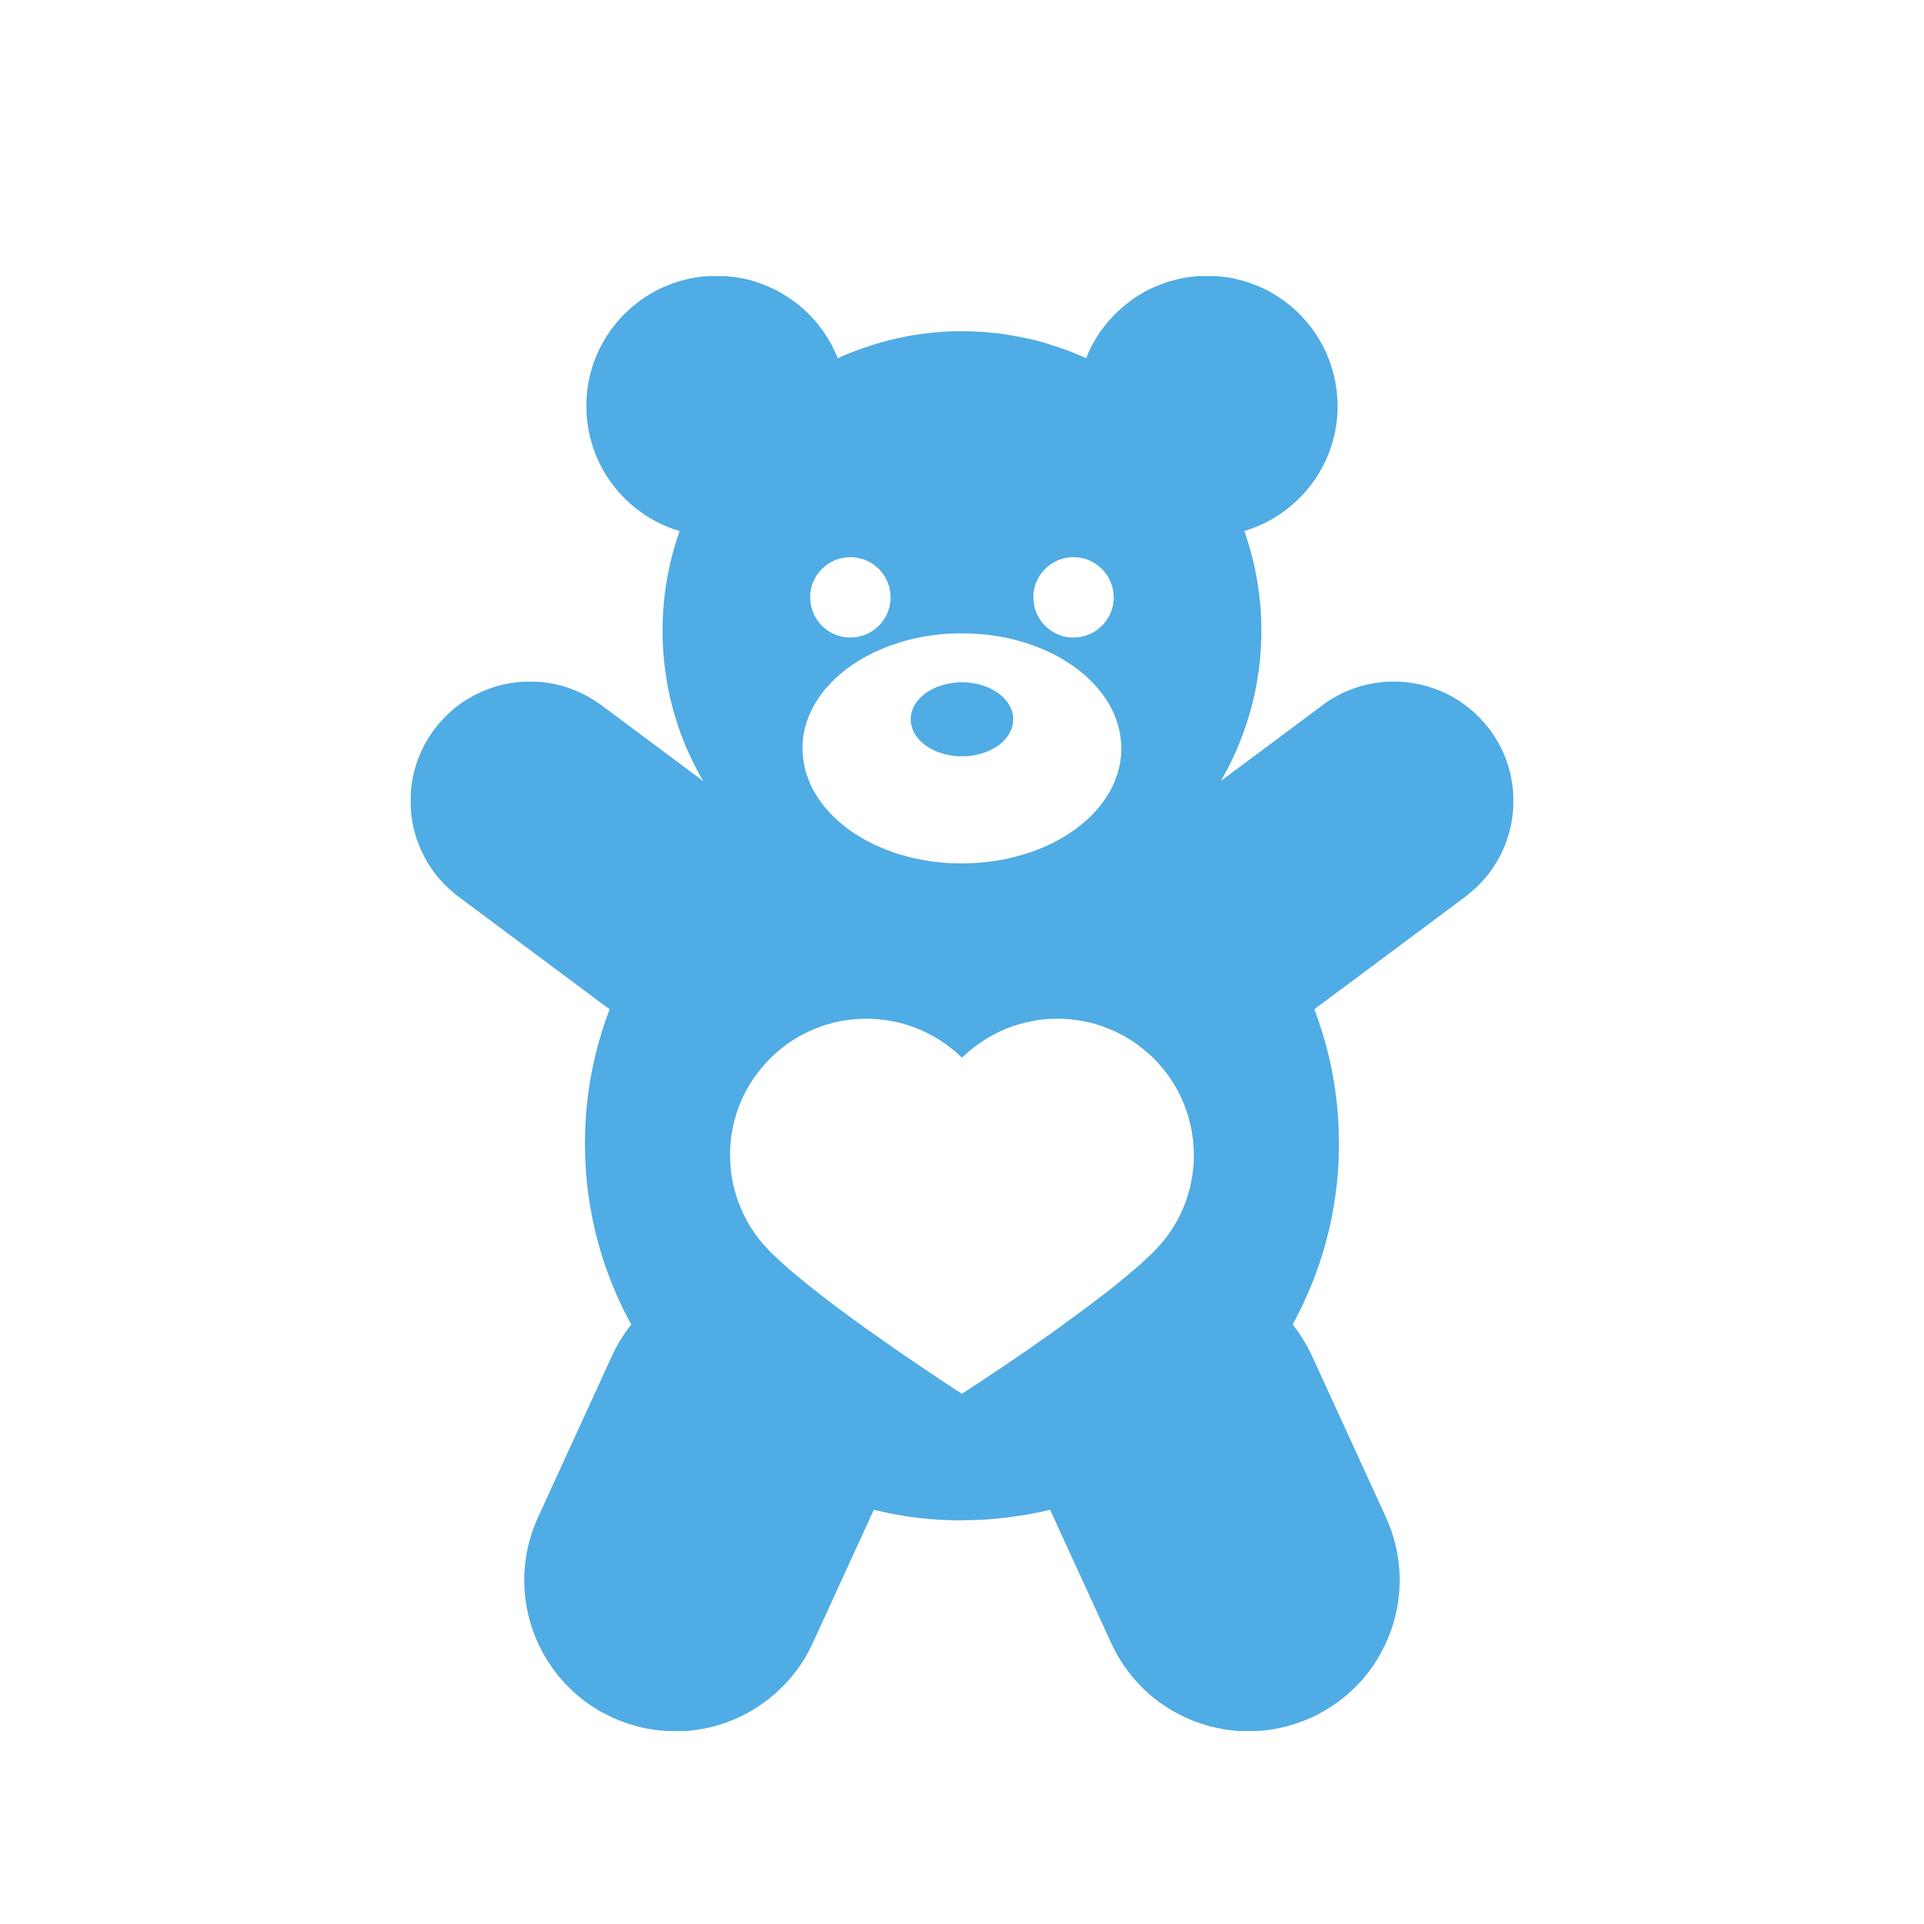
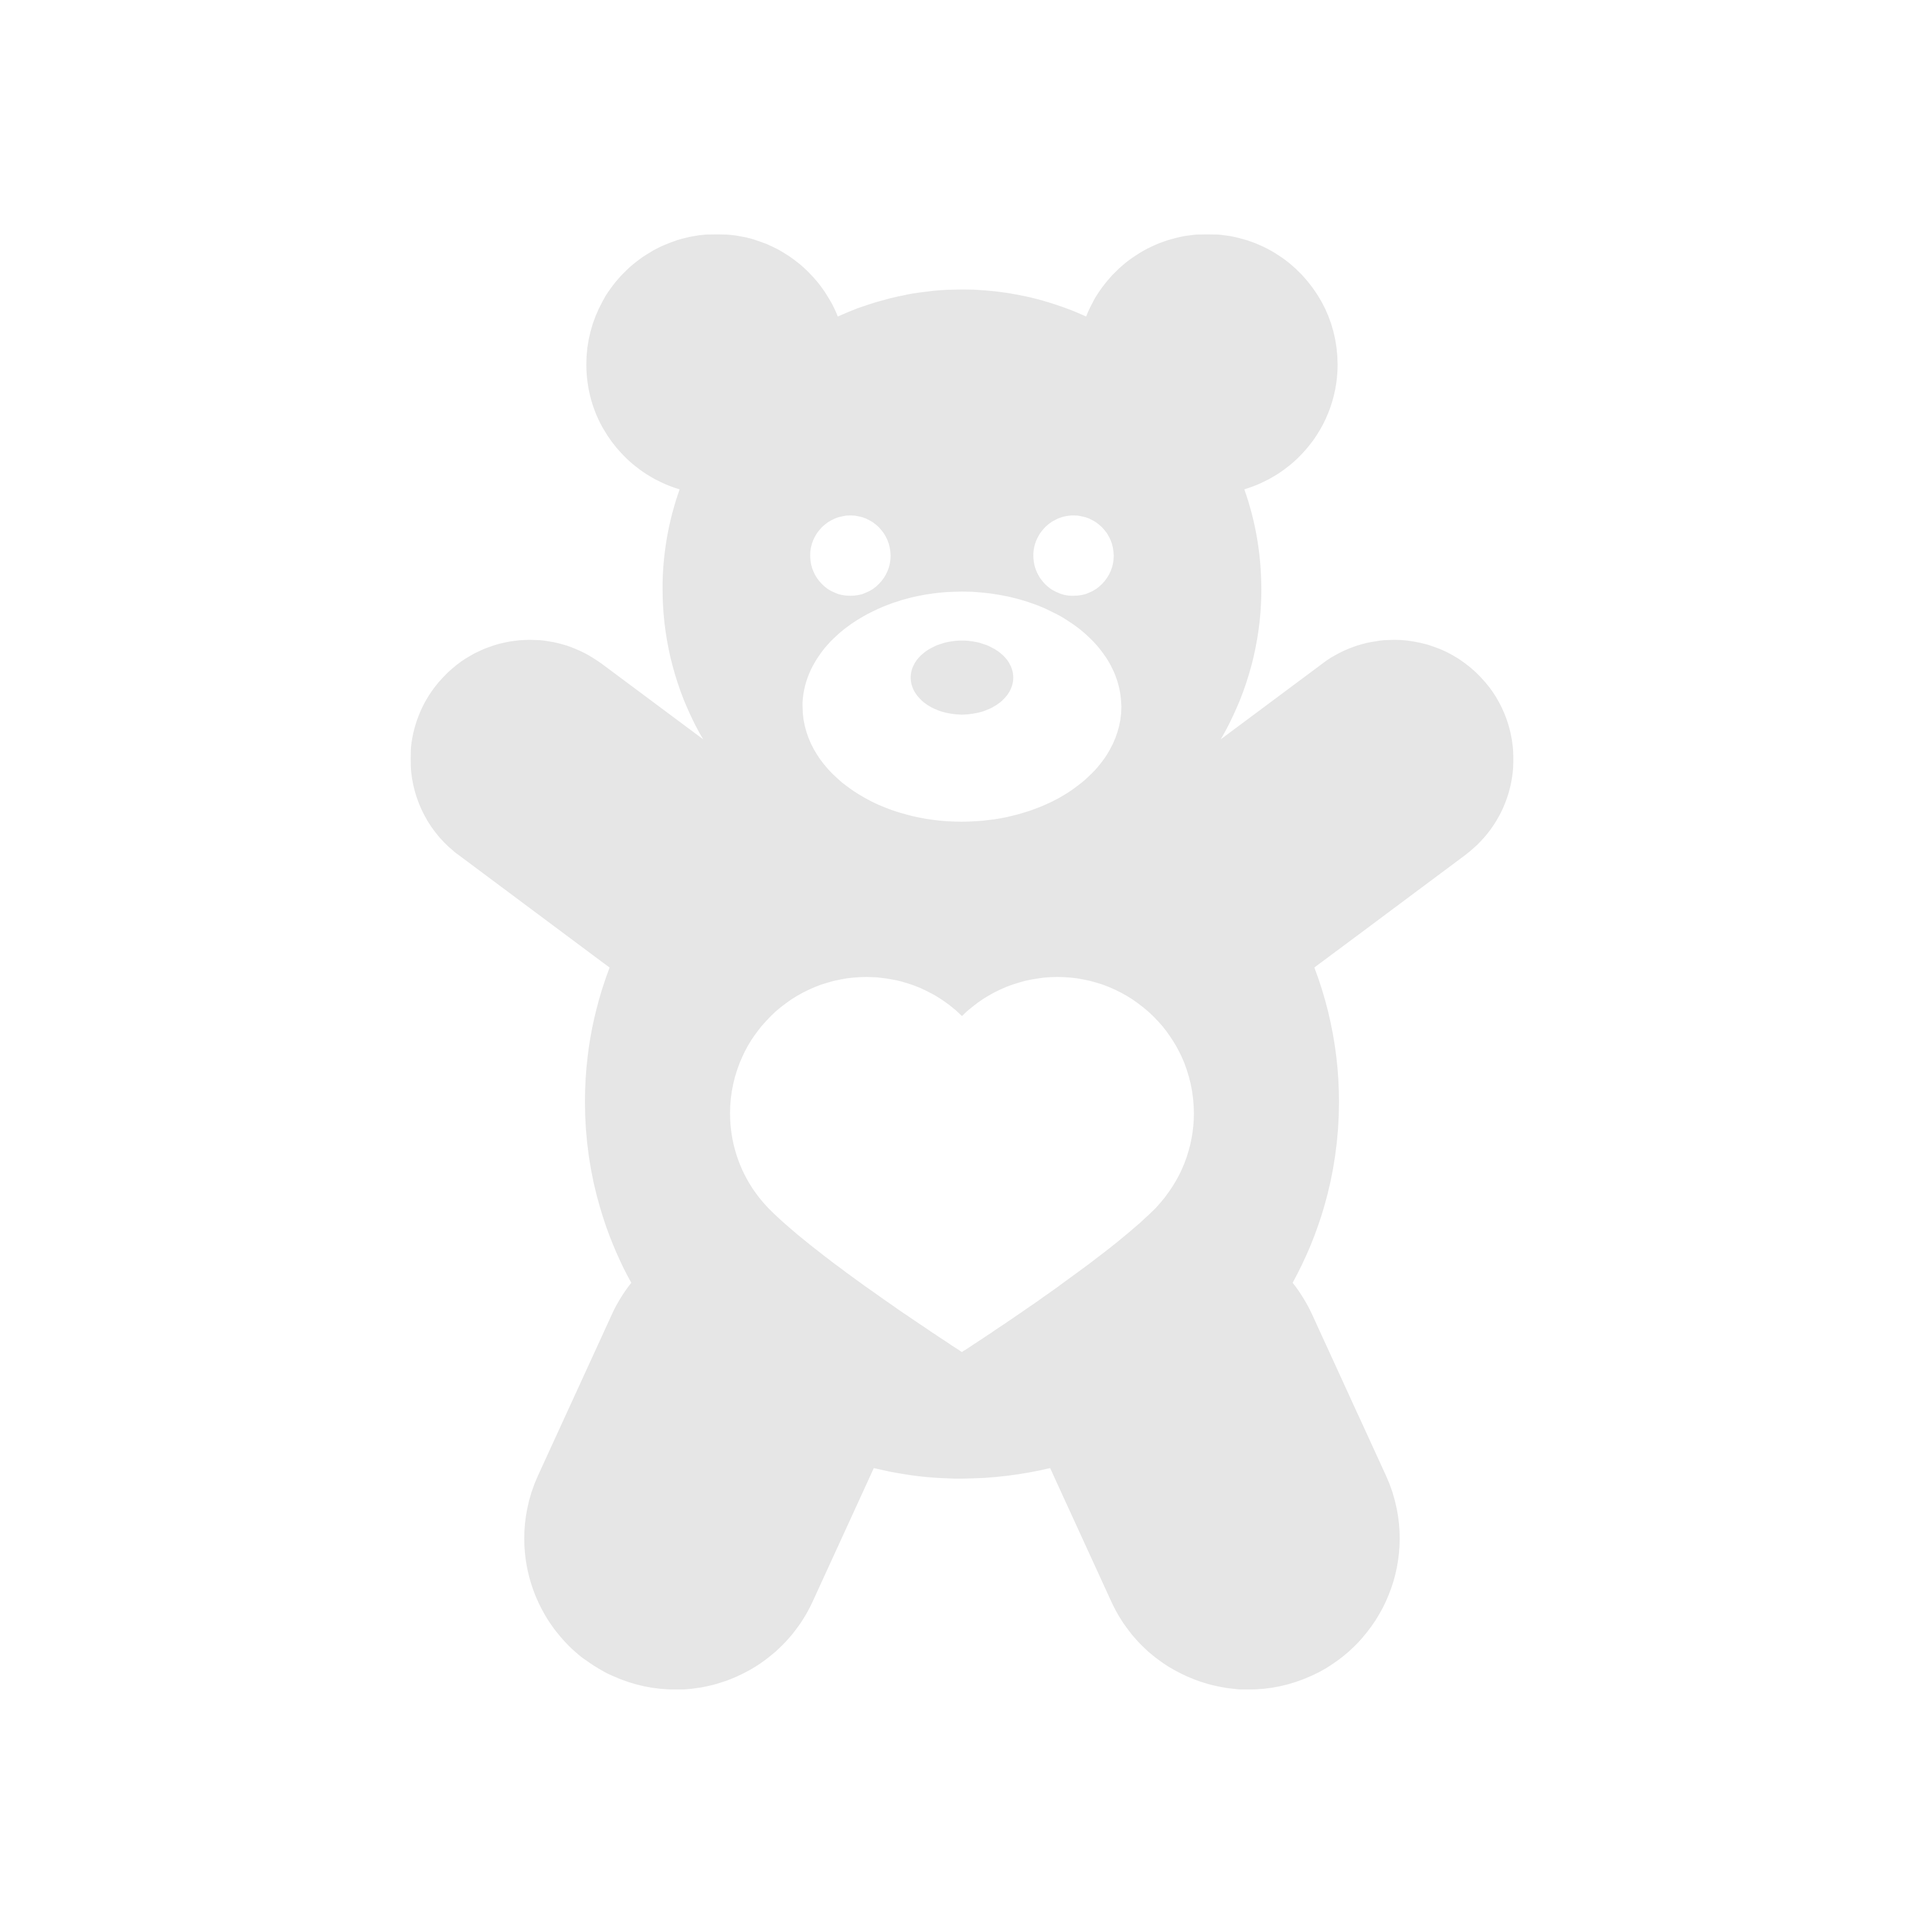
styled babysitter cards

Changed region(s): [[0.187, 0.1247, 0.8105, 0.904]]

diff --git a/SitterShare/client/src/components/Babysitter/GlobalSitterCard.js b/SitterShare/client/src/components/Babysitter/GlobalSitterCard.js
@@ -1,5 +1,6 @@
 import React, { useState, useEffect } from "react";
-import { Card, CardBody, Button } from "reactstrap";
+import { CardGroup, CardImg, CardTitle, CardSubtitle, CardText, Card, CardBody, Button } from "reactstrap";
+import img from "../teddyimage.png"
 import { Link } from 'react-router-dom';
 import { useHistory } from "react-router";
 
@@ -7,17 +8,16 @@ export const GlobalSitterCard = ({ sitter }) => {
     ///add a handle add sitter here and implement onClick in the button
 
     return (
-        <Card className="m-2 p-2 w-50 mx-auto">
-            <CardBody className="m-3">
-                <p><b>Name: </b>{sitter.firstName} {sitter.lastName}</p>
-                <p><b>Bio: </b>{sitter.bio}</p>
-                <div>
-                    <Button outline color="secondary">
-                        <Link to={`/findsitters/details/${sitter.id}`}>view details</Link>
-                    </Button>
-                </div>
-            </CardBody>
-        </Card>
+        <Card className="m-2 w-25 mx-auto">
+            <CardImg top width="100%" src={img} alt="usericon" />
+            <CardBody>
+                <CardTitle tag="h5">{sitter.firstName} {sitter.lastName}</CardTitle>
+                <CardText>{sitter.bio}</CardText>
+                <Button outline color="secondary">
+                    <Link to={`/findsitters/details/${sitter.id}`} style={{ textDecoration: 'none', color: 'black' }}>view details</Link>
+                </Button>
+            </CardBody >
+        </Card >
     );
 }
 

diff --git a/SitterShare/client/src/components/Parent/GlobalParentList.js b/SitterShare/client/src/components/Parent/GlobalParentList.js
@@ -1,5 +1,5 @@
 import React, { useEffect, useState } from "react";
-import { Card, CardBody, Container, Row, Col } from "reactstrap";
+import { Card, CardDeck, CardBody, Container, Row, Col } from "reactstrap";
 import GlobalParentCard from './GlobalParentCard';
 import { getAllParents } from "../../modules/parentManager";
 import "./GlobalParentList.css"
@@ -19,13 +19,11 @@ const GlobalParentsList = () => {
     return (
         <>
             <h2 className="text-center">Search for Friends</h2>
-            <Container id="container">
-                <div className="justify-content-center">
-                    {parents.map((parent) => (
-                        <GlobalParentCard parent={parent} key={parent.id} />
-                    ))}
-                </div>
-            </Container>
+            <CardDeck className="justify-content-center">
+                {parents.map((parent) => (
+                    <GlobalParentCard parent={parent} key={parent.id} />
+                ))}
+            </CardDeck>
         </>
     );
 };

diff --git a/SitterShare/client/src/components/Babysitter/GlobalSitterList.js b/SitterShare/client/src/components/Babysitter/GlobalSitterList.js
@@ -1,5 +1,5 @@
 import React, { useEffect, useState } from "react";
-import { Card, CardBody, Row } from "reactstrap";
+import { CardDeck, CardBody, Row } from "reactstrap";
 import GlobalSitterCard from './GlobalSitterCard';
 import { getAllBabysitters } from "../../modules/babysitterManager"
 
@@ -18,13 +18,11 @@ const GlobalSittersList = () => {
     return (
         <>
             <h2 className="text-center">Search for Babysitters</h2>
-            <div className="container">
-                <div className="col-xs-1">
-                    {sitters.map((sitter) => (
-                        <GlobalSitterCard sitter={sitter} key={sitter.id} />
-                    ))}
-                </div>
-            </div>
+            <CardDeck className="justify-content-center">
+                {sitters.map((sitter) => (
+                    <GlobalSitterCard sitter={sitter} key={sitter.id} />
+                ))}
+            </CardDeck>
         </>
     );
 };

diff --git a/SitterShare/client/src/components/Home.js b/SitterShare/client/src/components/Home.js
@@ -1,6 +1,6 @@
 import React from "react";
 import { Media } from "reactstrap";
-import img from "./faces.jpg"
+import img from "./faces.png"
 
 export const Welcome = () => {
     const imgStyle = {

diff --git a/SitterShare/client/src/components/Parent/GlobalParentList.css b/SitterShare/client/src/components/Parent/GlobalParentList.css
@@ -1,7 +1,3 @@
-#container {
-    margin-top: 2em;
-}
-
 h2 {
     margin-top: 1em;
 }
